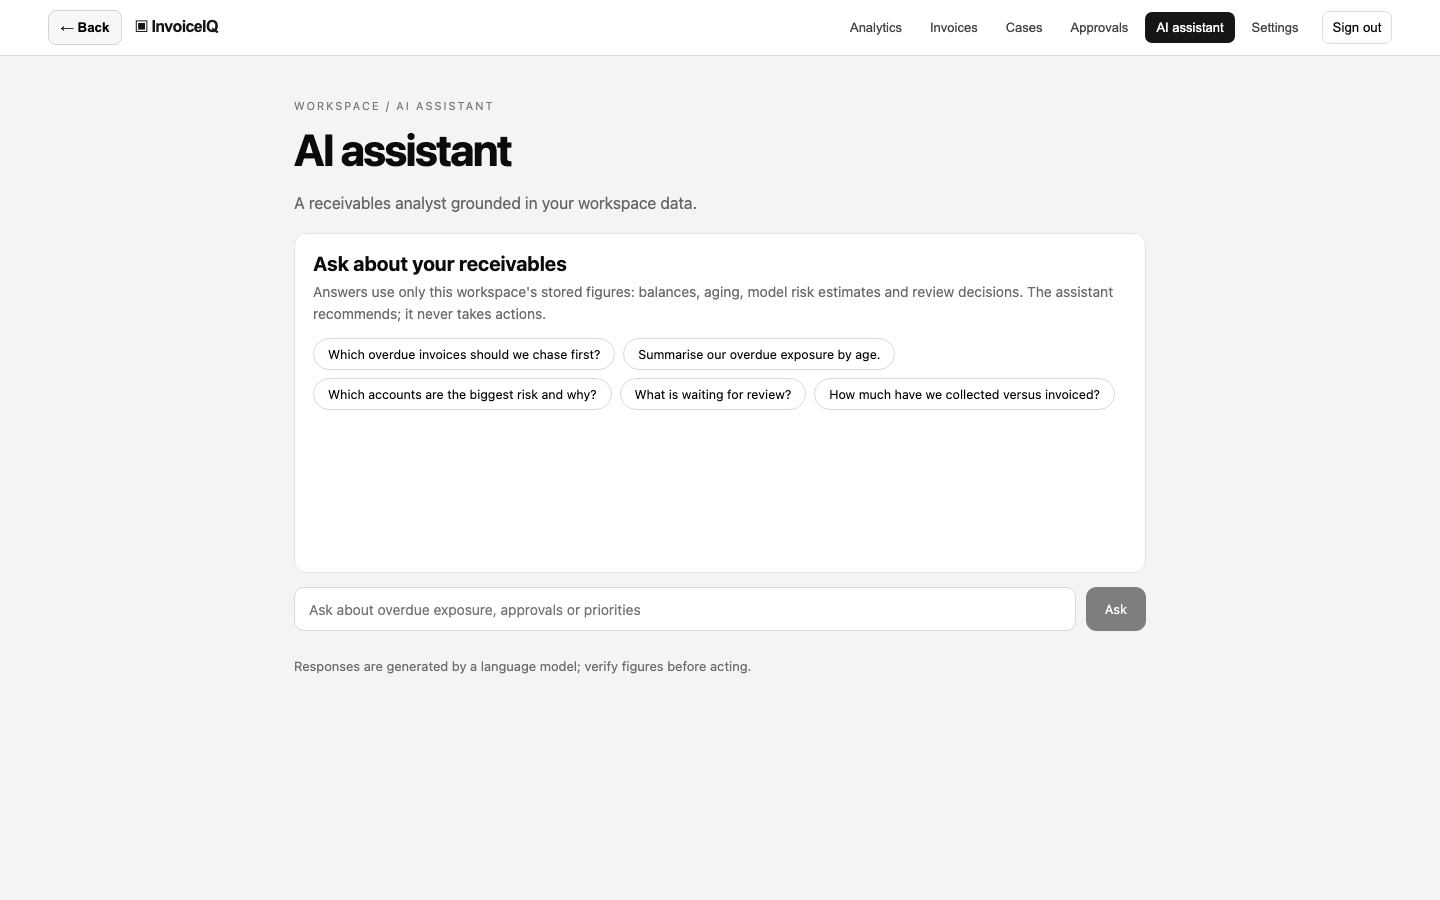
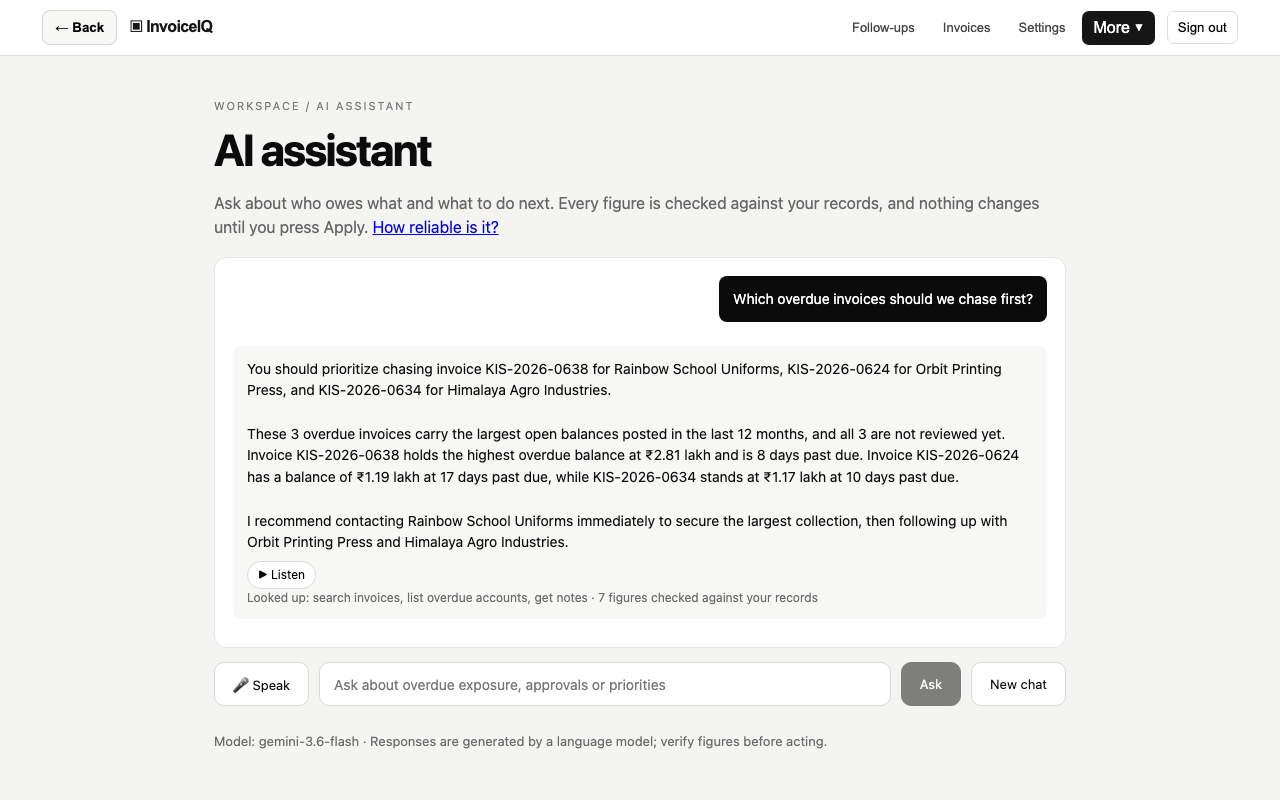
Bring back the screenshot gallery with current, populated screens
The README rewrite dropped the Screens section and the old approvals/
assistant/dashboard screenshots were never swapped in, so the only
visual left was one follow-ups shot. Took fresh screenshots of the
live site (dashboard, model comparison, approval queue, and the
assistant actually answering a question with real invoice numbers)
and put the gallery back. Dropped alerts.png, nothing referenced it.

diff --git a/README.md b/README.md
@@ -70,6 +70,18 @@ There's also a receivables dashboard, review and approval queues, an [assistant]
 questions about the ledger (every figure it states is checked against the data), and account settings including
 deleting all your data. See the [privacy page](https://invoiceiq-ai.vercel.app/privacy) for what's stored where.
 
+## Screens
+
+All of these are the live site, mid-session, with its generated data populated: nothing here is mocked up.
+
+| Dashboard | Model vs simple average |
+|---|---|
+| ![Receivables dashboard with reconciled totals and an aging chart](docs/images/dashboard.png) | ![Model and baseline AUC on this workspace and on public data, with calibration](docs/images/model.png) |
+
+| Approval queue | AI assistant answering a real question |
+|---|---|
+| ![Approval queue with status counts that add up and a weekly decisions chart](docs/images/approvals.png) | ![The assistant naming specific overdue invoices, with every figure checked against the records](docs/images/assistant.png) |
+
 ## How well it works
 
 On the chronological test split of the public dataset (6,181 invoices from Dec 2015 to Jan 2016 that the model never
